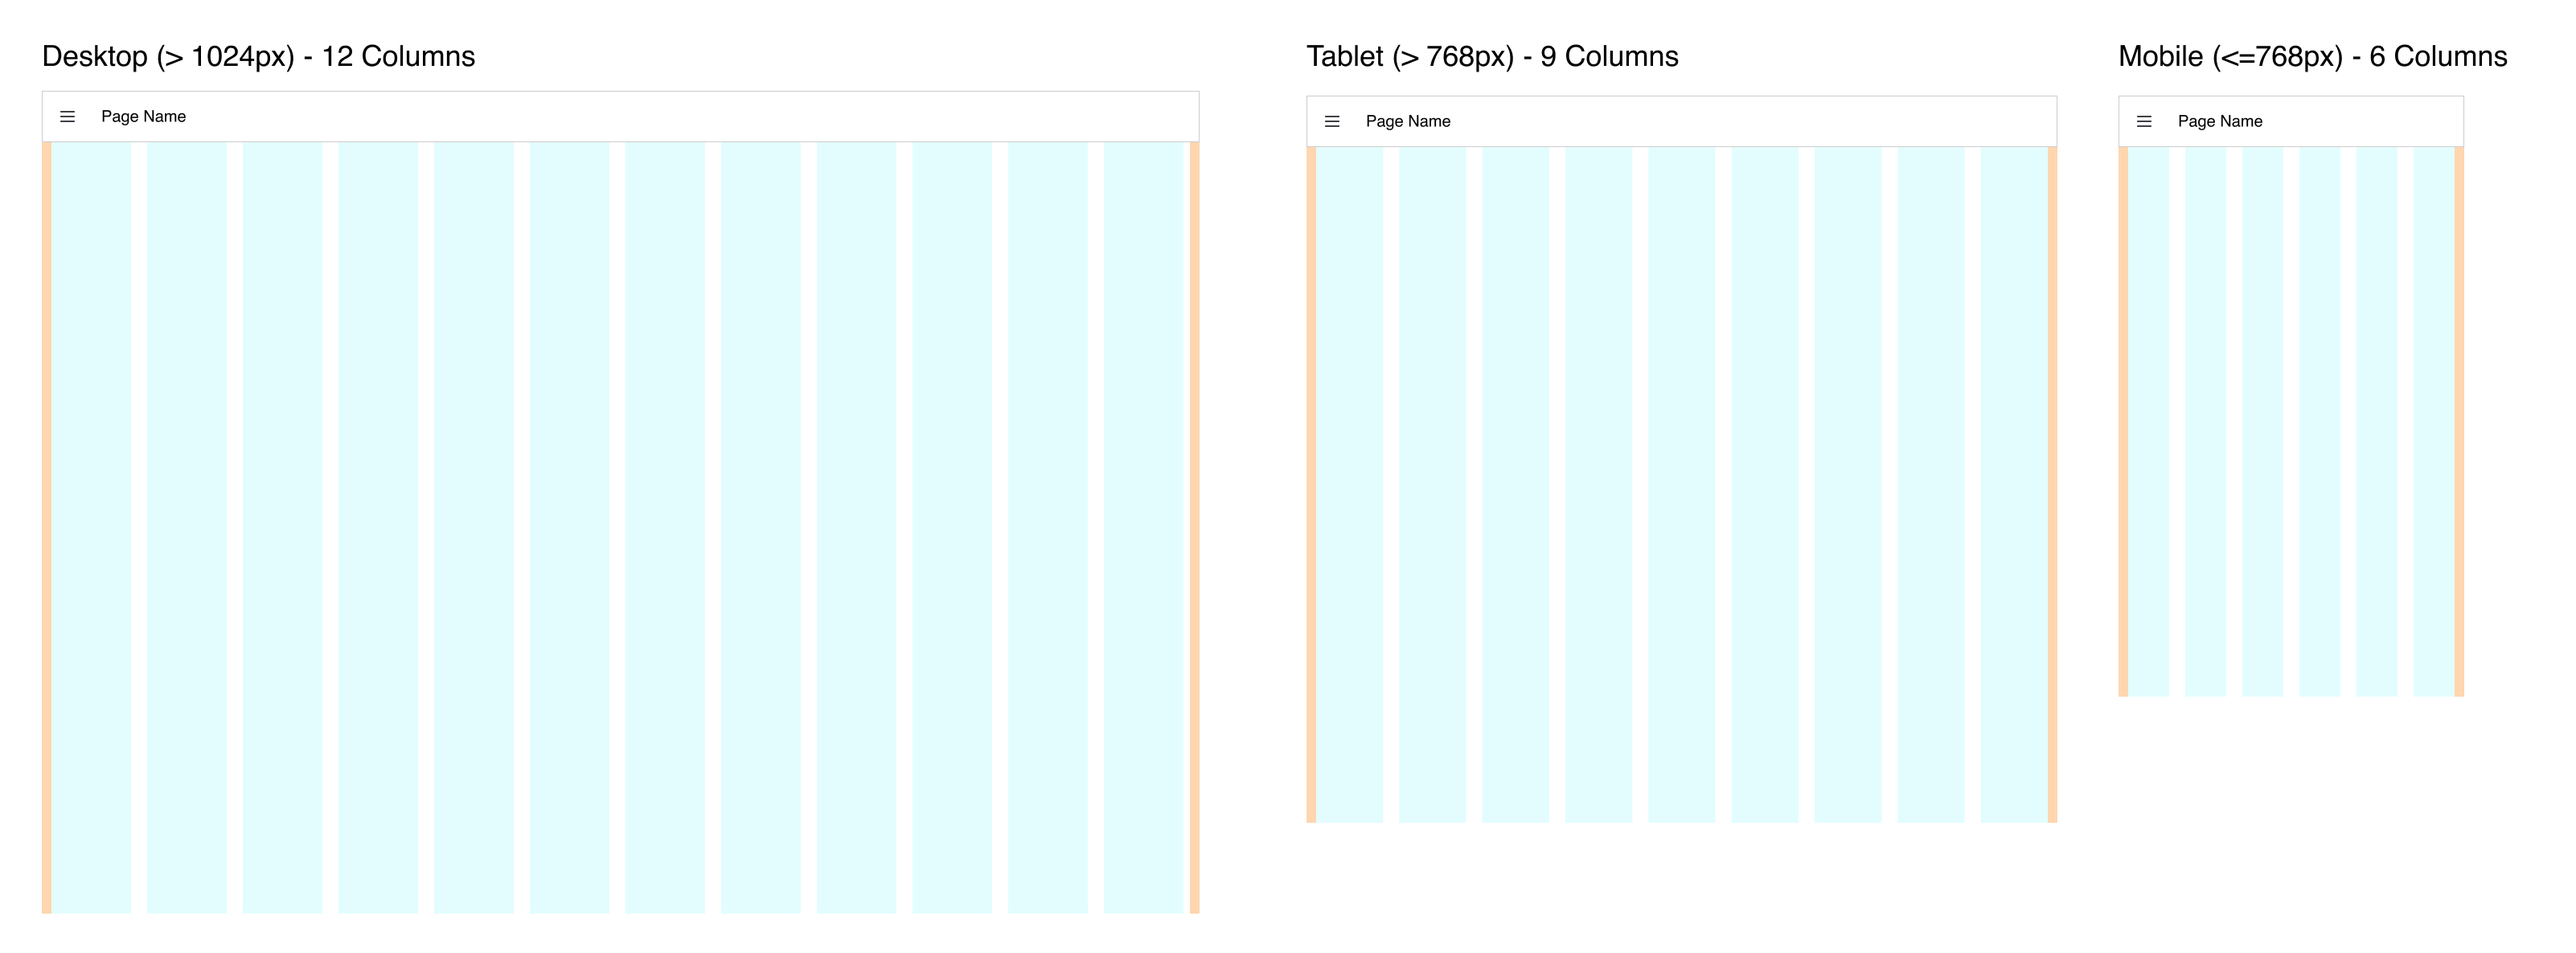
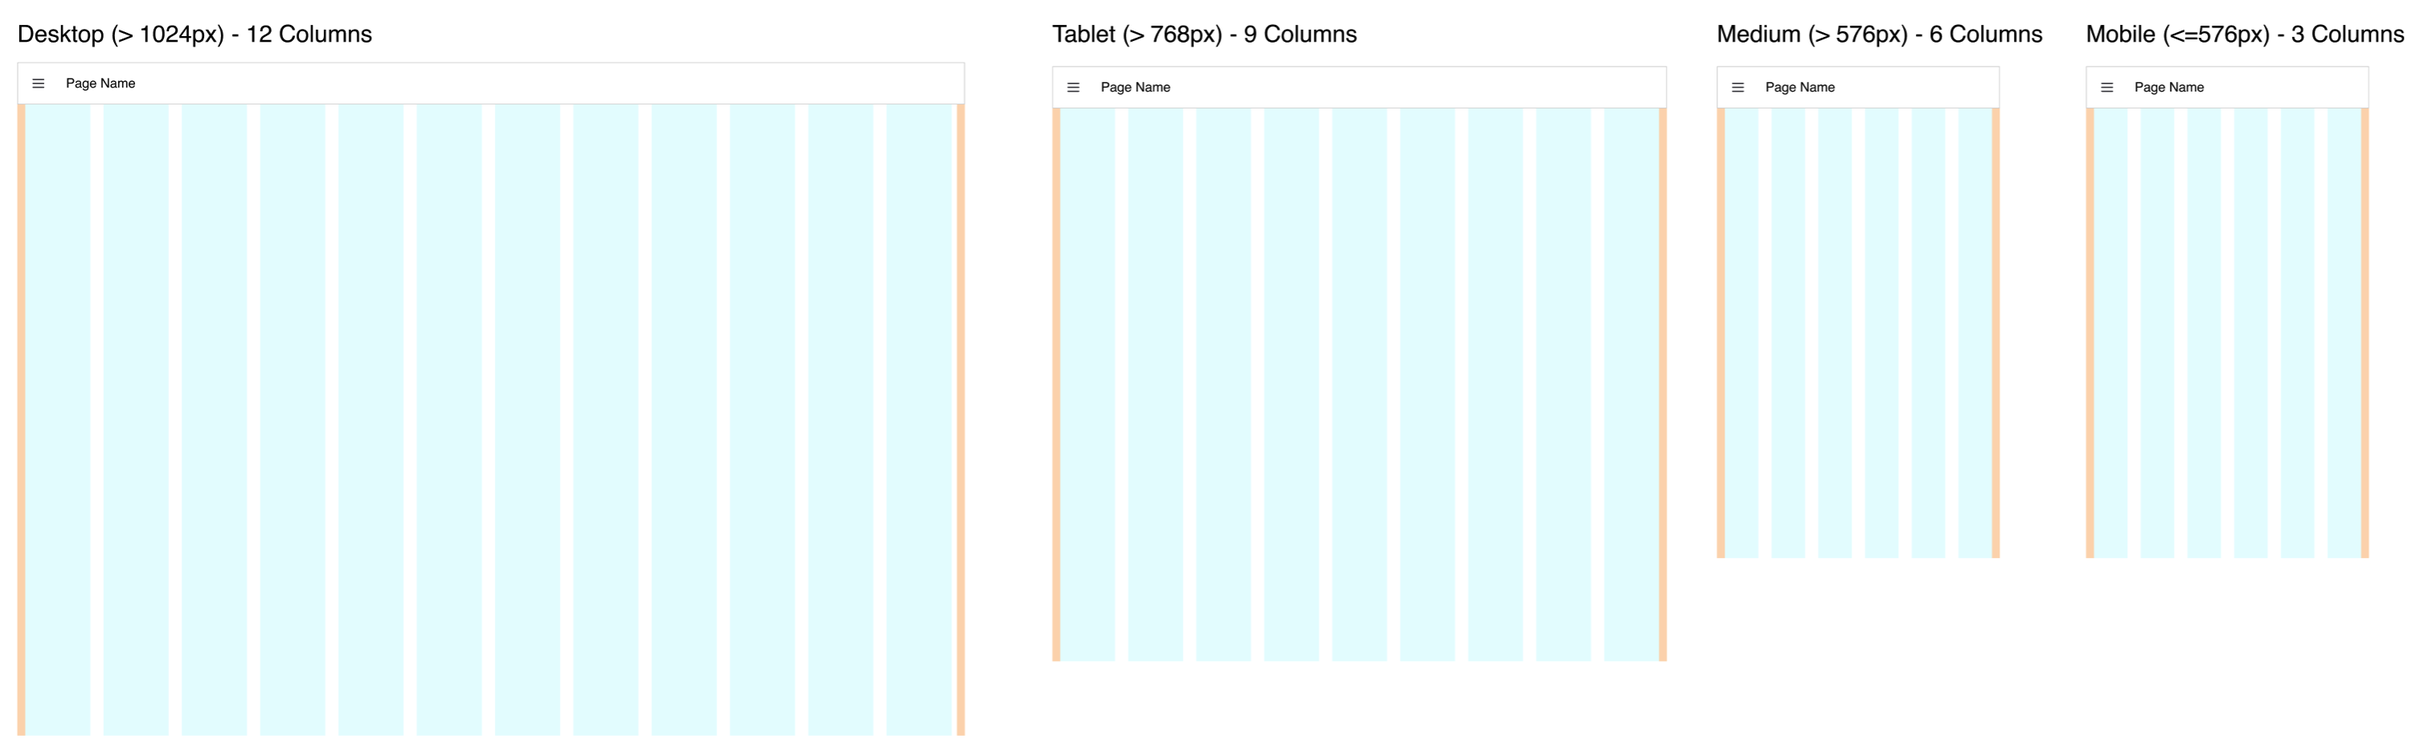
Docs: Update documentation for new breakpoint and detail points in Notebook layout

diff --git a/docs/layouts/types/notebook.md b/docs/layouts/types/notebook.md
@@ -29,3 +29,30 @@ We can get finer grain width control within a group by increasing it's width. Th
 
 ![Notebook Layout](../../assets/images/layout-eg-notebook-width12.png){data-zoomable}
 *An example UI rendered using the "Notebook" Layout*
+
+## Breakpoints
+
+Depending on the screen size, the number of default columns rendered will change. Here you can see examples of the columns rendered at three breakpoints:
+
+![Guidelines demonstrating the columns rendered in the "Grid" Layout](../../assets/images/layout-grid-columns.png){data-zoomable}
+_Guidelines demonstrating the columns rendered in the "Grid" Layout at different screen sizes_
+
+### Desktop
+
+- **Breakpoint:** 1024px
+- **Columns:** 12
+
+### Tablet
+
+- **Breakpoint:** 768px
+- **Columns:** 9
+
+### Medium
+
+- **Breakpoint:** > 576px
+- **Columns:** 6
+
+### Mobile
+
+- **Breakpoint:** < 576px
+- **Columns:** 3

diff --git a/docs/layouts/types/grid.md b/docs/layouts/types/grid.md
@@ -27,10 +27,15 @@ _Guidelines demonstrating the columns rendered in the "Grid" Layout at different
 - **Breakpoint:** 768px
 - **Columns:** 9
 
+### Medium
+
+- **Breakpoint:** > 576px
+- **Columns:** 6
+
 ### Mobile
 
-- **Breakpoint:** < 768px
-- **Columns:** 6
+- **Breakpoint:** < 576px
+- **Columns:** 3
 
 ## Controlling Width
 
